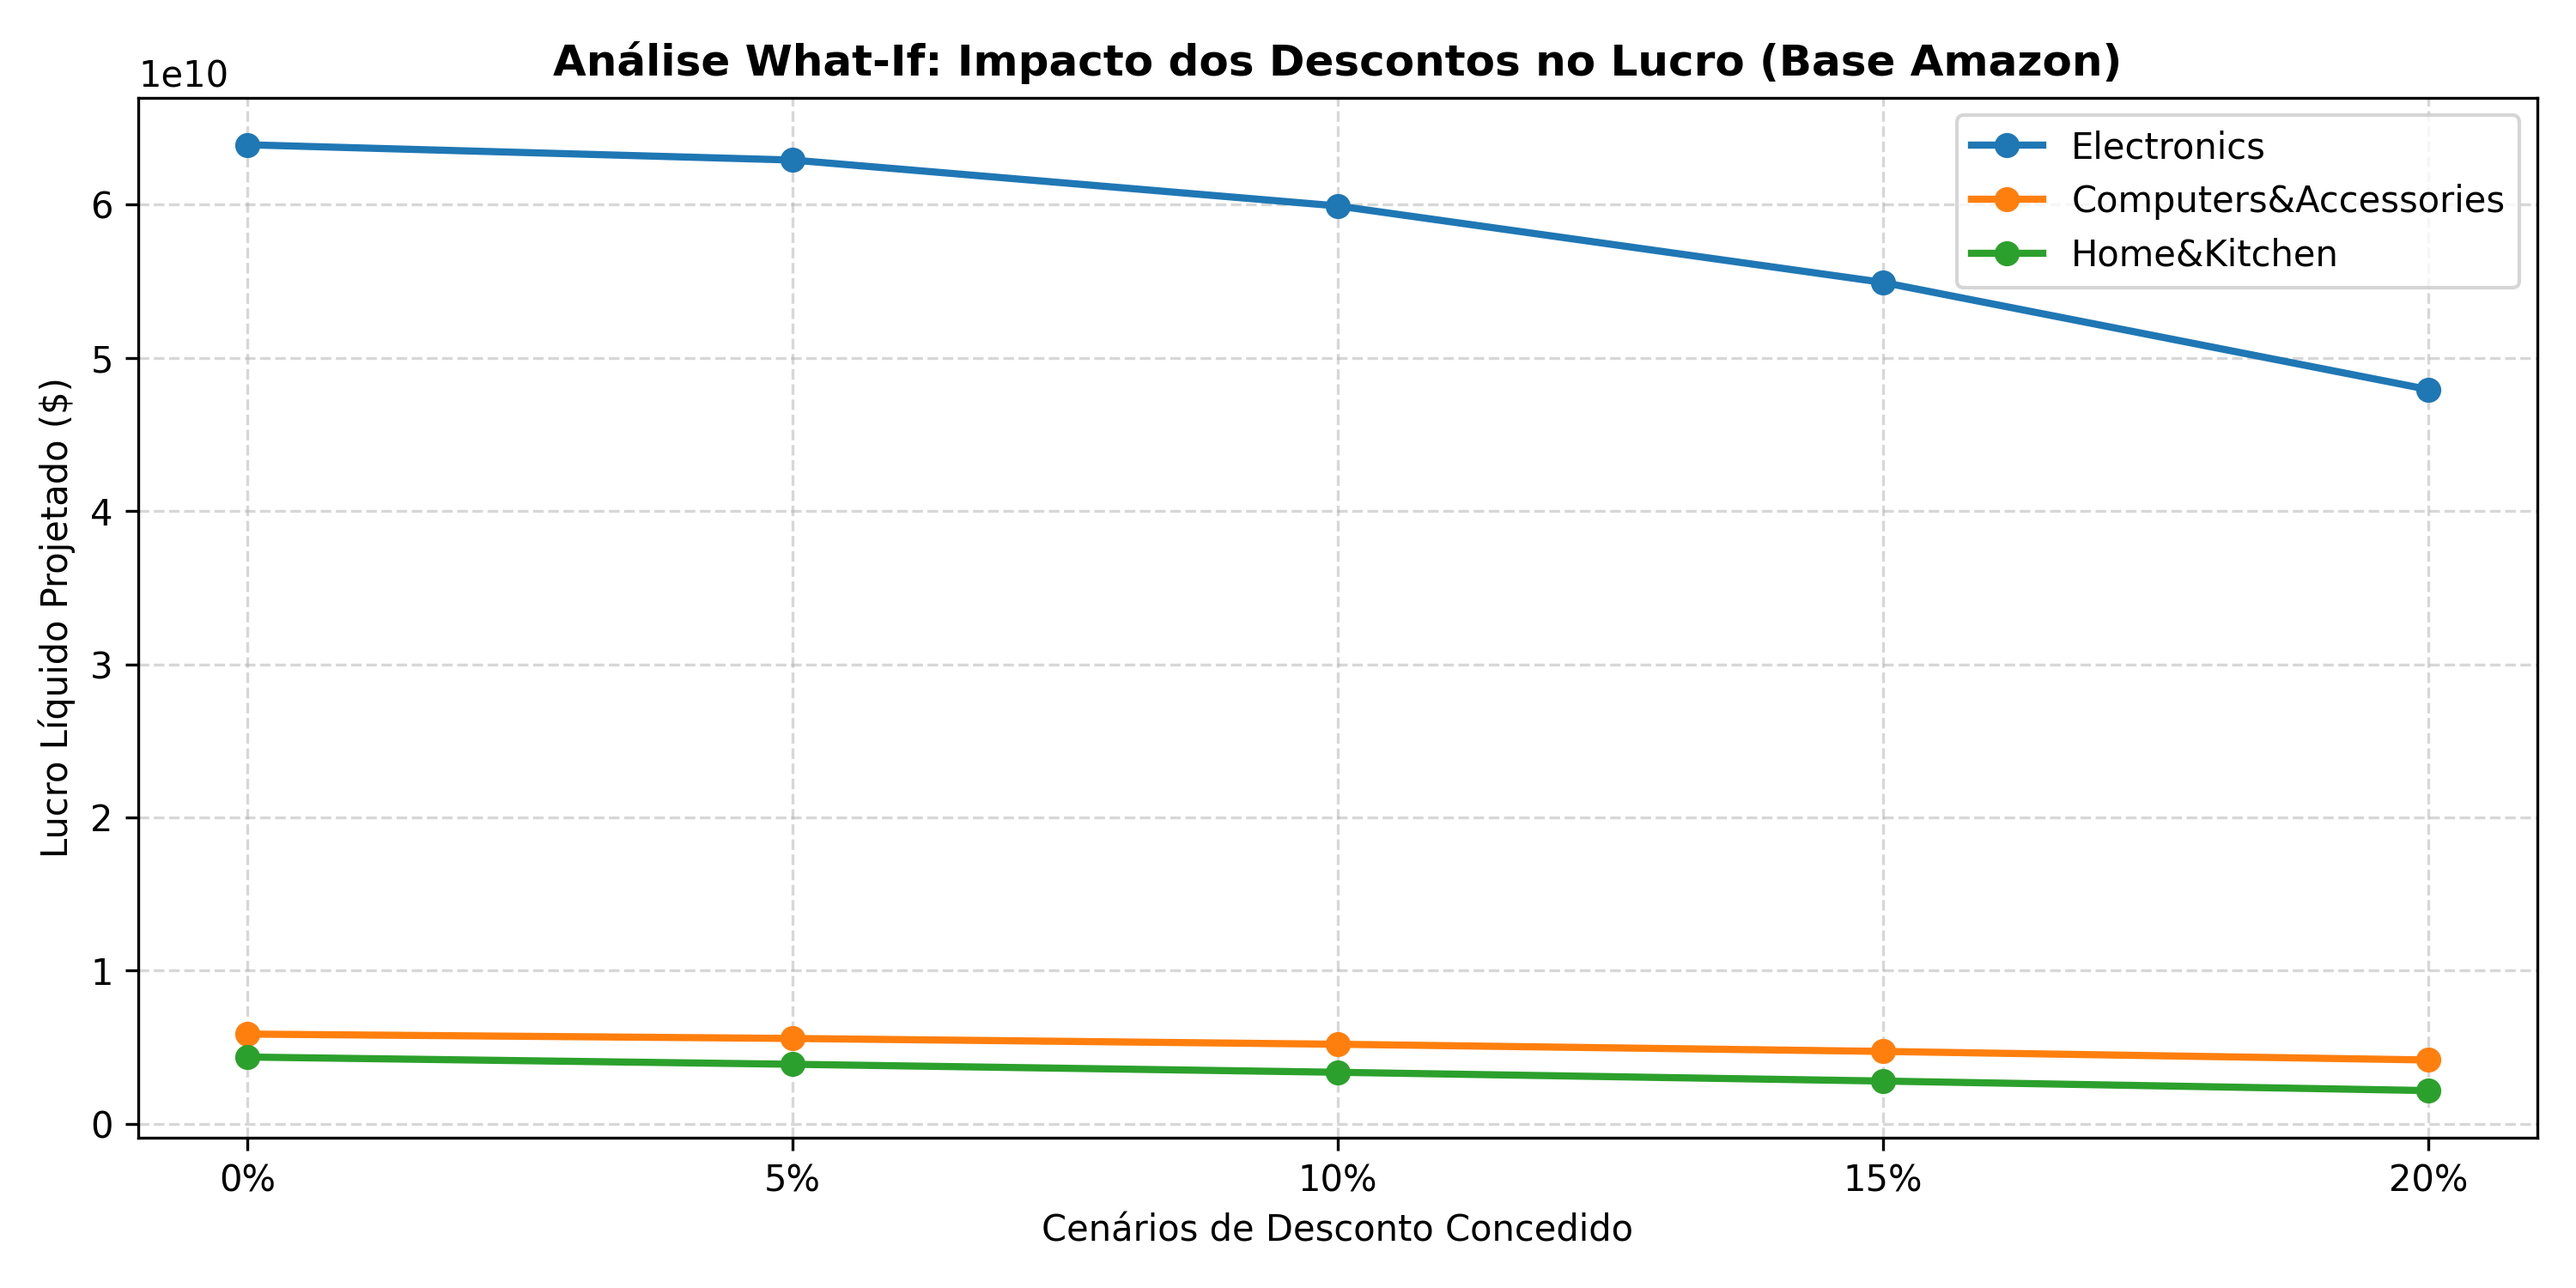
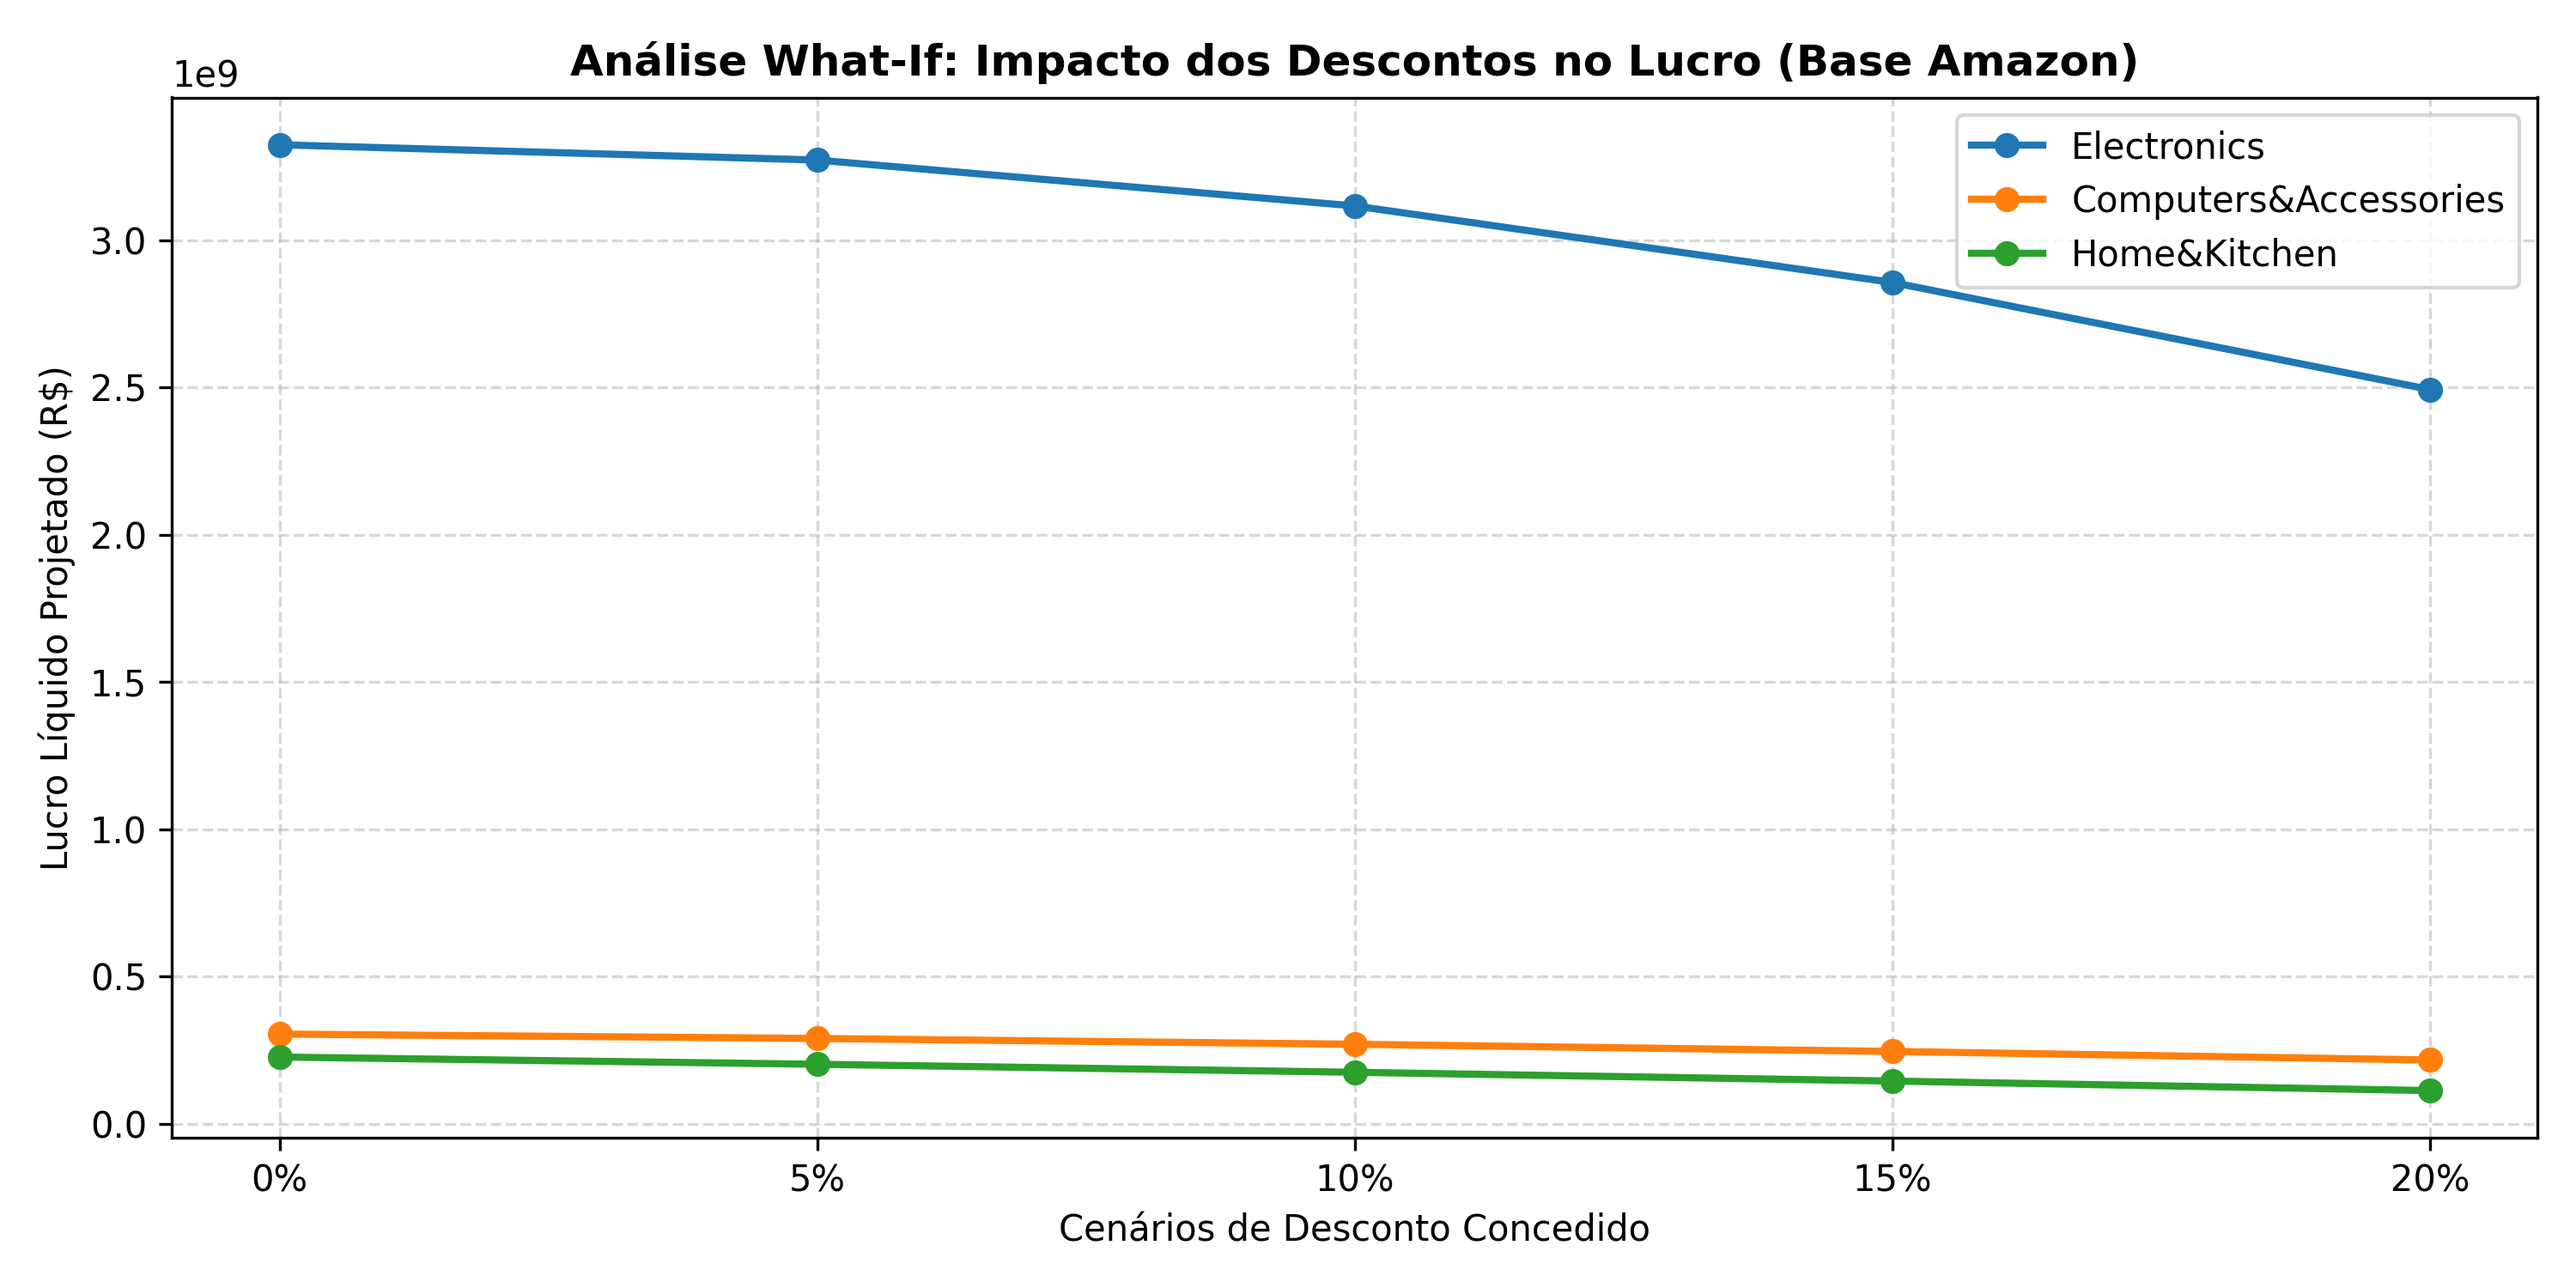
Atualizada a mensagem de carregamento do arquivo e ajustados os rótulos de preço e lucro para utilizar a moeda correta (R$). Substituído o gráfico para refletir as mudanças na visualização.

diff --git a/analise_what_if_precos.py b/analise_what_if_precos.py
@@ -10,13 +10,13 @@ st.set_page_config(page_title="SAD - Precificação Amazon", layout="wide")
 st.title("📊 Sistema de Apoio à Decisão (SAD) - Precificação Tática")
 st.markdown("Interface interativa baseada no processamento de dados do e-commerce.")
 
-print("A carregar os dados do amazon.csv...")
+print("Carregando os dados do amazon.csv...")
 try:
     df = pd.read_csv('amazon.csv')
-    print("Ficheiro da Amazon carregado com sucesso!")
+    print("Arquivo da Amazon carregado com sucesso!")
 except FileNotFoundError:
-    print("ERRO: O ficheiro 'amazon.csv' não foi encontrado na pasta.")
-    st.error("ERRO: O ficheiro 'amazon.csv' não foi encontrado na pasta.")
+    print("ERRO: O arquivo 'amazon.csv' não foi encontrado na pasta.")
+    st.error("ERRO: O arquivo 'amazon.csv' não foi encontrado na pasta.")
     st.stop()
 
 # limpeza dos dados: remover o símbolo '₹' (rupia) e converter preços para float
@@ -24,10 +24,13 @@ def limpar_preco(valor):
     if pd.isna(valor): return 0.0
     return float(str(valor).replace('₹', '').replace(',', '').strip())
 
-df['Preco_Original'] = df['actual_price'].apply(limpar_preco)
+# conversão de rúpias (₹) para reais (R$) com taxa fixa
+# cotação aproximada de nov/2026: 1 INR ≈ 0,052 BRL 
+TAXA_INR_BRL = 0.052
+df['Preco_Original'] = df['actual_price'].apply(limpar_preco) * TAXA_INR_BRL
 
 # como a coluna category tem subcategorias longas separadas por '|',
-# vamos extrair apenas o primeiro nome para termos categorias limpas.
+#  extrair apenas o primeiro nome para ter categorias limpas.
 df['Categoria_Principal'] = df['category'].apply(lambda x: str(x).split('|')[0] if pd.notna(x) else 'Outros')
 
 # filtrar o volume de demanda (remover vírgulas do rating_count)
@@ -53,7 +56,7 @@ for idx, row in df_base.iterrows():
     cat = row['Categoria_Principal']
     st.sidebar.subheader(f"📁 {cat}")
     
-    # valores padrão originais do script para servir de início
+    # valores padrão iniciais das premissas
     margem_padrao = 0.40 if "Electronics" in cat else (0.45 if "Computers" in cat else 0.35)
     eps_padrao = -2.5 if "Electronics" in cat else (-1.4 if "Computers" in cat else -0.8)
     
@@ -89,32 +92,32 @@ for dct in politicas_desconto:
         resultados_simulacao.append({
             'Cenário Desconto': f"{int(dct*100)}%",
             'Categoria': cat,
-            'Preço Médio ($)': round(p_novo, 2),
+            'Preço Médio (R$)': round(p_novo, 2),
             'Demanda Projetada (Uds)': q_nova,
-            'Lucro Estimado ($)': round(lucro_novo, 2)
+            'Lucro Estimado (R$)': round(lucro_novo, 2)
         })
 
 df_what_if = pd.DataFrame(resultados_simulacao)
 
-# geração automática do arquivo png para o latex em segundo plano
+# geração automática do arquivo png em segundo plano
 plt.figure(figsize=(10, 5))
 for cat in df_base['Categoria_Principal']:
     dados_cat = df_what_if[df_what_if['Categoria'] == cat]
-    plt.plot(dados_cat['Cenário Desconto'], dados_cat['Lucro Estimado ($)'], marker='o', linewidth=2, label=cat)
+    plt.plot(dados_cat['Cenário Desconto'], dados_cat['Lucro Estimado (R$)'], marker='o', linewidth=2, label=cat)
 
 plt.title('Análise What-If: Impacto dos Descontos no Lucro (Base Amazon)', fontsize=12, fontweight='bold', color='black')
 plt.xlabel('Cenários de Desconto Concedido', color='black')
-plt.ylabel('Lucro Líquido Projetado ($)', color='black')
+plt.ylabel('Lucro Líquido Projetado (R$)', color='black')
 plt.xticks(color='black')
 plt.yticks(color='black')
 plt.grid(True, linestyle='--', alpha=0.5)
 plt.legend()
 plt.tight_layout()
 plt.savefig('grafico_what_if_amazon.png', dpi=300)
-plt.close()
+plt.close() # fecha o gráfico para não consumir memória do servidor
 
 # tomada de decisão automatizada
-lucro_por_cenario = df_what_if.groupby('Cenário Desconto')['Lucro Estimado ($)'].sum()
+lucro_por_cenario = df_what_if.groupby('Cenário Desconto')['Lucro Estimado (R$)'].sum()
 melhor_cenario = lucro_por_cenario.idxmax()
 maior_lucro = lucro_por_cenario.max()
 
@@ -123,188 +126,28 @@ col1, col2 = st.columns(2)
 with col1:
     st.metric(label="💡 RECOMENDAÇÃO AUTOMÁTICA DO SAD", value=f"Política de {melhor_cenario} de desconto.")
 with col2:
-    st.metric(label="💰 Lucro Consolidado Projetado", value=f"$ {maior_lucro:,.2f}")
+    st.metric(label="💰 Lucro Consolidado Projetado", value=f"R$ {maior_lucro:,.2f}")
 
 st.markdown("---")
 
-# visualização dos dados 
+# visualização dos dados (gráfico dinâmico do plotly)
 fig = px.line(
     df_what_if, 
     x='Cenário Desconto', 
-    y='Lucro Estimado ($)', 
+    y='Lucro Estimado (R$)', 
     color='Categoria',
     markers=True,
-    labels={'Lucro Estimado ($)': 'Lucro Líquido Projetado ($)', 'Cenário Desconto': 'Cenários de Desconto Concedido'},
+    labels={'Lucro Estimado (R$)': 'Lucro Líquido Projetado (R$)', 'Cenário Desconto': 'Cenários de Desconto Concedido'},
     title="Análise What-If: Impacto dos Descontos no Lucro (Base Amazon)"
 )
 
 fig.update_layout(
-    hovermode="x unified", 
-    template="plotly_white",
-    title={
-        'font': {'size': 16, 'family': 'sans-serif', 'color': 'white'},
-        'y': 0.95,
-        'x': 0.5,
-        'xanchor': 'center',
-        'yanchor': 'top'
-    },
-    font=dict(
-        family="sans-serif", 
-        size=12, 
-        color="white"
-    ),
-    xaxis=dict(
-        title_font=dict(color='white'),
-        tickfont=dict(color='white'),
-        gridcolor='lightgray'
-    ),
-    yaxis=dict(
-        title_font=dict(color='white'),
-        tickfont=dict(color='white'),
-        gridcolor='lightgray'
-    ),
-    legend=dict(
-        font=dict(color='white'),
-        bordercolor='white',
-        borderwidth=1
-    )
+    hovermode="x unified",
+    title={'x': 0.5, 'xanchor': 'center'}
 )
 
-# mostra o gráfico interativo na interface web configurado com a largura elástica stretch
-st.plotly_chart(fig, width='stretch')
+st.plotly_chart(fig, width='stretch', theme='streamlit')
 
-# comparação direta: uma política escolhida x cenário sem desconto (0%)
-import plotly.graph_objects as go
-
-def formatar_valor(v, sinal=False):
-    """formata valores grandes de forma curta (mil / mi / bi) no padrão brasileiro"""
-    s = '-' if v < 0 else ('+' if sinal and v > 0 else '')
-    a = abs(v)
-    for limite, sufixo in [(1e9, ' bi'), (1e6, ' mi'), (1e3, ' mil')]:
-        if a >= limite:
-            num = f"{a / limite:,.1f}"
-            break
-    else:
-        num, sufixo = f"{a:,.0f}", ''
-    num = num.replace(',', 'X').replace('.', ',').replace('X', '.')
-    return f"{s}$ {num}{sufixo}"
-
-def formatar_pct(v):
-    return f"{v:+.1f}%".replace('.', ',')
-
-st.markdown("---")
-st.subheader("🔍 Comparar uma política com o cenário sem desconto")
-st.markdown(
-    "Escolha uma política de desconto e veja, para cada categoria, se o lucro **sobe ou cai** "
-    "em relação a **não dar desconto nenhum**. Dar desconto baixa o preço, mas atrai mais clientes: "
-    "a política só compensa quando o aumento nas vendas cobre o lucro que se perde por unidade."
-)
-
-opcoes_politica = [f"{int(d*100)}%" for d in politicas_desconto if d > 0]
-indice_padrao = opcoes_politica.index(melhor_cenario) if melhor_cenario in opcoes_politica else 0
-politica = st.radio("Política de desconto a comparar:", opcoes_politica, index=indice_padrao, horizontal=True)
-
-base = df_what_if[df_what_if['Cenário Desconto'] == '0%'].set_index('Categoria')
-sel = df_what_if[df_what_if['Cenário Desconto'] == politica].set_index('Categoria')
-
-df_comp = pd.DataFrame({
-    'Demanda sem desconto (Uds)': base['Demanda Projetada (Uds)'],
-    f'Demanda com {politica} (Uds)': sel['Demanda Projetada (Uds)'],
-    'Lucro sem desconto ($)': base['Lucro Estimado ($)'],
-    f'Lucro com {politica} ($)': sel['Lucro Estimado ($)'],
-})
-df_comp['Diferença ($)'] = df_comp[f'Lucro com {politica} ($)'] - df_comp['Lucro sem desconto ($)']
-df_comp['Variação do Lucro (%)'] = df_comp['Diferença ($)'] / df_comp['Lucro sem desconto ($)'].abs() * 100
-df_comp['Variação da Demanda (%)'] = (
-    (df_comp[f'Demanda com {politica} (Uds)'] / df_comp['Demanda sem desconto (Uds)'] - 1) * 100
-)
-
-total_base = df_comp['Lucro sem desconto ($)'].sum()
-total_sel = df_comp[f'Lucro com {politica} ($)'].sum()
-dif_total = total_sel - total_base
-var_total = dif_total / abs(total_base) * 100
-
-ganham = [c for c, d in df_comp['Diferença ($)'].items() if d > 0]
-perdem = [c for c, d in df_comp['Diferença ($)'].items() if d < 0]
-if dif_total > 0:
-    veredito = f"✅ **Vale a pena.** Com {politica} de desconto, o lucro total **sobe {formatar_valor(dif_total)} ({formatar_pct(var_total)})** em relação a não dar desconto."
-elif dif_total < 0:
-    veredito = f"❌ **Não vale a pena.** Com {politica} de desconto, o lucro total **cai {formatar_valor(abs(dif_total))} ({formatar_pct(var_total)})** em relação a não dar desconto."
-else:
-    veredito = f"➖ Com {politica} de desconto, o lucro total fica **igual** ao cenário sem desconto."
-detalhes = []
-if ganham:
-    detalhes.append("Categorias que **ganham**: " + ", ".join(ganham) + ".")
-if perdem:
-    detalhes.append("Categorias que **perdem**: " + ", ".join(perdem) + ".")
-st.markdown(veredito + "  \n" + " ".join(detalhes))
-
-# cartões: total + um por categoria, sempre "com desconto" e a diferença para o sem desconto
-colunas = st.columns(len(df_comp) + 1)
-with colunas[0]:
-    st.metric(
-        label="Lucro TOTAL",
-        value=formatar_valor(total_sel),
-        delta=f"{formatar_valor(dif_total, sinal=True)} ({formatar_pct(var_total)})",
-        help=f"Sem desconto: {formatar_valor(total_base)}",
-    )
-    st.caption(f"Sem desconto: {formatar_valor(total_base)}")
-for col, (cat, linha) in zip(colunas[1:], df_comp.iterrows()):
-    with col:
-        st.metric(
-            label=cat,
-            value=formatar_valor(linha[f'Lucro com {politica} ($)']),
-            delta=f"{formatar_valor(linha['Diferença ($)'], sinal=True)} ({formatar_pct(linha['Variação do Lucro (%)'])})",
-        )
-        st.caption(
-            f"Sem desconto: {formatar_valor(linha['Lucro sem desconto ($)'])} · "
-            f"Vendas: {formatar_pct(linha['Variação da Demanda (%)'])}"
-        )
-
-# gráfico de barras divergente: variação % do lucro em relação ao sem desconto
-nomes = list(df_comp.index) + ['TOTAL']
-variacoes = list(df_comp['Variação do Lucro (%)']) + [var_total]
-cores = ['#2e9e5b' if v >= 0 else '#d64545' for v in variacoes]
-
-fig_comp = go.Figure(go.Bar(
-    x=variacoes,
-    y=nomes,
-    orientation='h',
-    marker_color=cores,
-    text=[formatar_pct(v) for v in variacoes],
-    textposition='outside',
-    cliponaxis=False,
-    hovertemplate='%{y}: %{text} de lucro vs. sem desconto<extra></extra>',
-))
-limite_x = max(abs(v) for v in variacoes) * 1.35 or 1
-fig_comp.add_vline(x=0, line_width=2, line_color='gray')
-fig_comp.update_layout(
-    title=f"Quanto o lucro muda com {politica} de desconto (em relação a 0%)",
-    xaxis=dict(title='Variação do lucro (%)', range=[-limite_x, limite_x], ticksuffix='%', zeroline=False),
-    yaxis=dict(autorange='reversed'),
-    height=120 + 60 * len(nomes),
-    margin=dict(l=10, r=10, t=60, b=40),
-    showlegend=False,
-)
-st.plotly_chart(fig_comp, width='stretch')
-st.caption("🟩 barra verde = lucro maior que sem desconto · 🟥 barra vermelha = lucro menor que sem desconto")
-
-with st.expander(f"📄 Tabela da comparação: {politica} x sem desconto"):
-    st.dataframe(
-        df_comp.style.format({
-            'Demanda sem desconto (Uds)': '{:,.0f}',
-            f'Demanda com {politica} (Uds)': '{:,.0f}',
-            'Lucro sem desconto ($)': '{:,.2f}',
-            f'Lucro com {politica} ($)': '{:,.2f}',
-            'Diferença ($)': '{:+,.2f}',
-            'Variação do Lucro (%)': '{:+.1f}%',
-            'Variação da Demanda (%)': '{:+.1f}%',
-        }),
-        width='stretch',
-    )
-
-st.markdown("---")
-
-# expansor opcional para exibir a tabela de projeções na interface
+# expansor opcional para exibir a tabela de projeções na interface, igual ao print do terminal
 with st.expander("📄 Visualizar Tabela Completa de Projeções What-If (Dados Amazon)"):
-    st.dataframe(df_what_if[['Cenário Desconto', 'Categoria', 'Demanda Projetada (Uds)', 'Lucro Estimado ($)']], width='stretch')
+    st.dataframe(df_what_if[['Cenário Desconto', 'Categoria', 'Demanda Projetada (Uds)', 'Lucro Estimado (R$)']], width='stretch')
